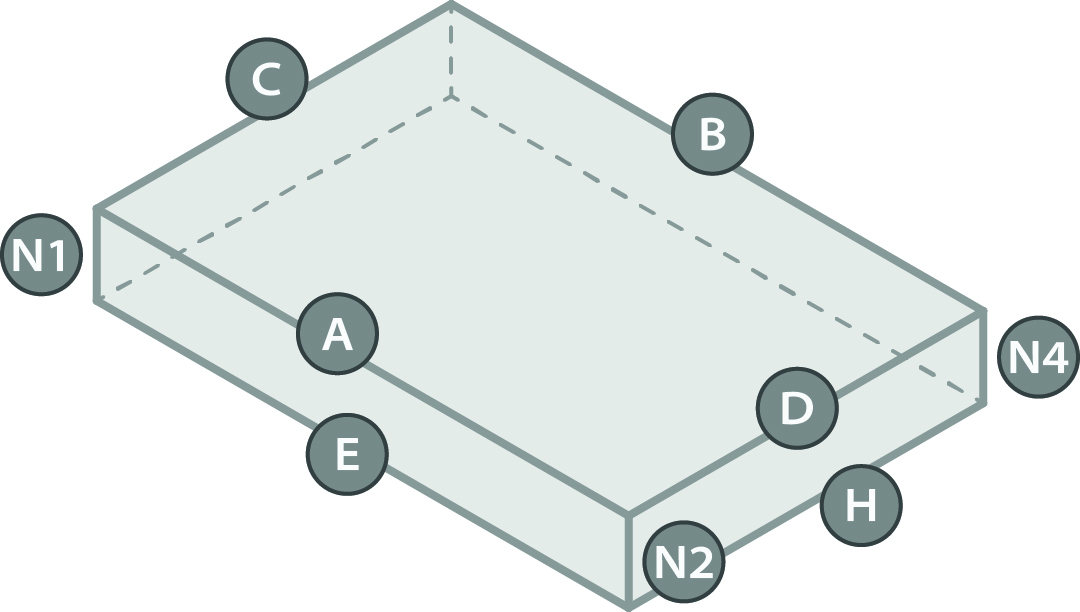
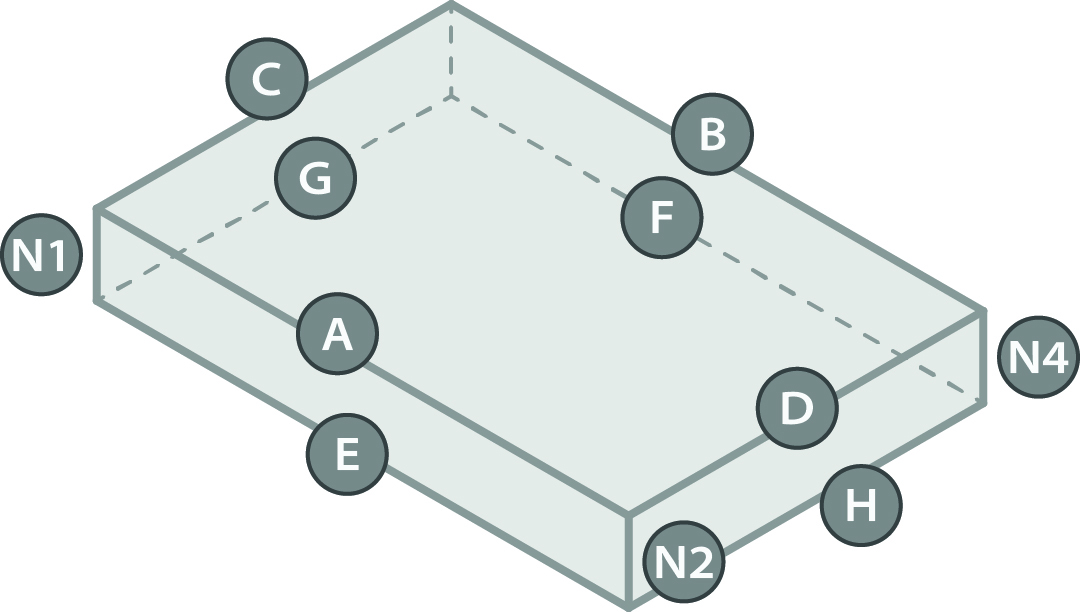
fix(chat_bridge): krawedzie z promieniem (r_value) i katem — koniec 'Rundefined', grupowanie po R w podsumowaniu; podmiana obrazu krawedzi (G/F)
- normalize_edges: r_value (round, domyslnie 5) + angle_value (chamfer, domyslnie 45); LLM podaje 'r'/'kat'
- build_products: edges z letter/type/r_value/angle_value (kontrakt UI advanced) -> koniec Rundefined w CRM
- _opis_edges: grupowanie po (typ, promien) -> 'R3 (C, A, D); R5 (E)'
- prompt: instrukcja promienia/kata per krawedz
- obraz oznaczenie_krawedzi.jpg zaktualizowany (dodane G, F)

Changed region(s): [[0.55, 0.2794, 0.6722, 0.4346], [0.2444, 0.2173, 0.3361, 0.3725]]

diff --git a/integrations/chat_bridge/bots/crm_calc.py b/integrations/chat_bridge/bots/crm_calc.py
@@ -163,10 +163,21 @@ def _norm_edge_type(v):
     return None
 
 
+_R_DEFAULT = 5     # domyslny promien zaokraglenia (mm) — jak w UI kalkulatora
+_KAT_DEFAULT = 45  # domyslny kat fazowania (stopnie)
+
+
+def _num_int(v, default=None):
+    """Liczba calkowita z 'R3'/'3 mm'/3 albo default; None gdy brak i default=None."""
+    m = re.search(r"\d+", str(v if v is not None else ""))
+    return int(m.group(0)) if m else default
+
+
 def normalize_edges(raw):
-    """Lista {litera,typ} z LLM -> znormalizowana lista {litera,typ}: waliduje litery/typy i
-    rozwija 'wszystkie/kazda' -> A,B,C,D. Odrzuca nieznane. Zwraca [] gdy nic sensownego
-    (nigdy nie rzuca — dane z LLM sa niepewne)."""
+    """Lista {litera,typ,[r,kat]} z LLM -> znormalizowana lista {litera,typ,r_value,angle_value}:
+    waliduje litery/typy, rozwija 'wszystkie/kazda' -> A,B,C,D, dolacza promien (round) lub kat
+    (chamfer). Odrzuca nieznane. Dedup po (litera,typ,r_value,angle_value). Zwraca [] gdy nic
+    sensownego (nigdy nie rzuca — dane z LLM sa niepewne)."""
     out, seen = [], set()
     for e in (raw or []):
         if not isinstance(e, dict):
@@ -175,11 +186,20 @@ def normalize_edges(raw):
         typ = _norm_edge_type(e.get("typ") or e.get("type"))
         if not typ:
             continue
+        r_raw = e.get("r") if e.get("r") is not None else e.get("r_value")
+        kat_raw = e.get("kat") if e.get("kat") is not None else e.get("angle_value")
+        if typ == "round":
+            r_value, angle_value = _num_int(r_raw, _R_DEFAULT), None
+        elif typ == "chamfer":
+            r_value, angle_value = None, _num_int(kat_raw, _KAT_DEFAULT)
+        else:  # sharp — bez obrobki
+            r_value, angle_value = None, None
         litery = _ALL_TOP if lit in _WSZYSTKIE else [lit]
         for L in litery:
-            if L in EDGE_LETTERS and (L, typ) not in seen:
-                seen.add((L, typ))
-                out.append({"litera": L, "typ": typ})
+            klucz = (L, typ, r_value, angle_value)
+            if L in EDGE_LETTERS and klucz not in seen:
+                seen.add(klucz)
+                out.append({"litera": L, "typ": typ, "r_value": r_value, "angle_value": angle_value})
     return out
 
 
@@ -225,7 +245,9 @@ def build_products(pozycje, options):
         # Krawedzie (tryb advanced): litera->letter, typ->type. Pozycja bez krawedzi -> brak edges.
         edges = normalize_edges(poz.get("edges"))
         if edges:
-            prod["edges"] = [{"letter": e["litera"], "type": e["typ"]} for e in edges]
+            prod["edges"] = [{"letter": e["litera"], "type": e["typ"],
+                              "r_value": e["r_value"], "angle_value": e["angle_value"]}
+                             for e in edges]
             prod["edges_mode"] = "advanced"
         products.append(prod)
     return products, braki

diff --git a/integrations/chat_bridge/bots/quotebot.py b/integrations/chat_bridge/bots/quotebot.py
@@ -64,8 +64,11 @@ _FORMAT = (
     "NIE proś klienta o e-mail ani telefon w trakcie zbierania parametrów produktu — o kontakt "
     "system zapyta sam już PO przygotowaniu wyceny.\n"
     "KRAWĘDZIE ('edges'): lista obróbek krawędzi tej pozycji, każdy element "
-    '{"litera": "A", "typ": "round"}. Typy: "sharp" (ostra, bez obróbki), "chamfer" (fazowanie), '
-    '"round" (zaokrąglenie, np. gdy klient mówi „R4”). Litery blatu/parapetu: A=góra przód (długość), '
+    '{"litera": "A", "typ": "round", "r": 3}. Typy: "sharp" (ostra, bez obróbki), "chamfer" '
+    '(fazowanie — podaj kąt w polu "kat", np. 45), "round" (zaokrąglenie — podaj promień w mm w polu '
+    '"r", np. gdy klient mówi „R3” użyj "r": 3; domyślnie 5). Klient może podać różne promienie dla '
+    "różnych krawędzi (np. „C, A, D R3, E R5”) — każdą krawędź zapisz osobnym elementem z jej promieniem. "
+    'Litery blatu/parapetu: A=góra przód (długość), '
     "B=góra tył (długość), C=góra lewa (szerokość), D=góra prawa (szerokość); dół: E/F/G/H; narożniki: "
     "N1–N4; kształt okrągły: KG (górny obwód)/KD (dolny obwód). Gdy klient chce „wszystkie/każdą "
     'krawędź” danego typu — użyj litery "WSZYSTKIE" (system rozwinie na A,B,C,D). Obsługujesz mieszane '
@@ -641,13 +644,22 @@ _TYP_EDGE_PL = {"sharp": "ostre", "chamfer": "fazowane", "round": "zaokrąglone"
 
 
 def _opis_edges(edges):
-    """Czytelny opis krawedzi do podsumowania: 'A, B, C, D — zaokrąglone' (grupowane wg typu)."""
-    grupy = {}
+    """Czytelny opis krawedzi do podsumowania, grupowany po (typ, promien/kat):
+    'R3 (C, A, D); R5 (E)' dla zaokrąglen, 'Fazowanie 45° (E)' dla faz, 'Ostre (A)' dla sharp."""
+    grupy = {}   # klucz -> [etykieta, [litery]]
     for e in edges or []:
-        if isinstance(e, dict) and e.get("litera") and e.get("typ"):
-            grupy.setdefault(e["typ"], []).append(e["litera"])
-    return "; ".join("%s — %s" % (", ".join(lit), _TYP_EDGE_PL.get(typ, typ))
-                     for typ, lit in grupy.items())
+        if not (isinstance(e, dict) and e.get("litera") and e.get("typ")):
+            continue
+        typ = e["typ"]
+        r_value, angle = e.get("r_value"), e.get("angle_value")
+        if typ == "round":
+            etyk = "R%s" % r_value if r_value is not None else "Zaokrąglone"
+        elif typ == "chamfer":
+            etyk = "Fazowanie %s°" % angle if angle is not None else "Fazowanie"
+        else:
+            etyk = _TYP_EDGE_PL.get(typ, typ).capitalize()
+        grupy.setdefault((typ, r_value, angle), [etyk, []])[1].append(e["litera"])
+    return "; ".join("%s (%s)" % (etyk, ", ".join(lit)) for etyk, lit in grupy.values())
 
 
 def _fmt_cm(v):

diff --git a/integrations/chat_bridge/tests/test_quotebot_refinements.py b/integrations/chat_bridge/tests/test_quotebot_refinements.py
@@ -137,28 +137,40 @@ def test_normalize_edges_rozwija_wszystkie():
 
 def test_normalize_edges_waliduje_i_odrzuca():
     out = qb.crm_calc.normalize_edges([
-        {"litera": "A", "typ": "zaokrąglenie"},   # alias PL -> round
+        {"litera": "A", "typ": "zaokrąglenie"},   # alias PL -> round, promien domyslny 5
         {"litera": "X", "typ": "round"},           # zla litera -> odrzucona
         {"litera": "B", "typ": "cokolwiek"},       # zly typ -> odrzucony
     ])
-    assert out == [{"litera": "A", "typ": "round"}]
+    assert out == [{"litera": "A", "typ": "round", "r_value": 5, "angle_value": None}]
+
+
+def test_normalize_edges_promienie_i_kat():
+    out = qb.crm_calc.normalize_edges([
+        {"litera": "C", "typ": "round", "r": 3}, {"litera": "E", "typ": "round", "r": "R5"},
+        {"litera": "F", "typ": "chamfer", "kat": 45}])
+    assert {"litera": "C", "typ": "round", "r_value": 3, "angle_value": None} in out
+    assert {"litera": "E", "typ": "round", "r_value": 5, "angle_value": None} in out
+    assert {"litera": "F", "typ": "chamfer", "r_value": None, "angle_value": 45} in out
 
 
 def test_build_products_dodaje_edges_advanced():
-    poz = _poz(edges=[{"litera": "A", "typ": "round"}, {"litera": "B", "typ": "chamfer"}])
+    poz = _poz(edges=[{"litera": "A", "typ": "round", "r": 3},
+                      {"litera": "B", "typ": "chamfer", "kat": 45}])
     products, braki = qb.crm_calc.build_products([poz], {"finishing_options": []})
     assert braki == []
     p = products[0]
     assert p["edges_mode"] == "advanced"
-    assert {"letter": "A", "type": "round"} in p["edges"]
-    assert {"letter": "B", "type": "chamfer"} in p["edges"]
+    assert {"letter": "A", "type": "round", "r_value": 3, "angle_value": None} in p["edges"]
+    assert {"letter": "B", "type": "chamfer", "r_value": None, "angle_value": 45} in p["edges"]
 
 
-def test_podsumowanie_renderuje_krawedzie():
-    dane = {"pozycje": [_poz(edges=[{"litera": "A", "typ": "round"},
-                                    {"litera": "B", "typ": "round"}])], "wspolne": {}}
+def test_podsumowanie_grupuje_krawedzie_po_promieniu():
+    edges = qb.crm_calc.normalize_edges([
+        {"litera": "C", "typ": "round", "r": 3}, {"litera": "A", "typ": "round", "r": 3},
+        {"litera": "D", "typ": "round", "r": 3}, {"litera": "E", "typ": "round", "r": 5}])
+    dane = {"pozycje": [_poz(edges=edges)], "wspolne": {}}
     msg = qb._podsumowanie_msg(dane)
-    assert "Krawędzie: A, B — zaokrąglone" in msg
+    assert "Krawędzie: R3 (C, A, D); R5 (E)" in msg
 
 
 def test_merge_zapamietuje_edges():
